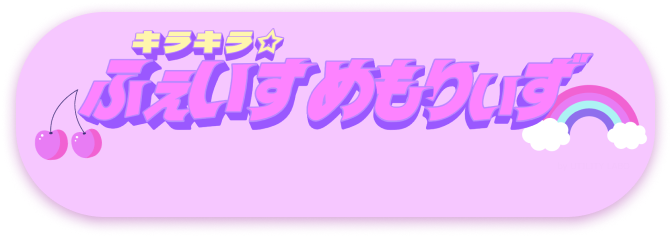
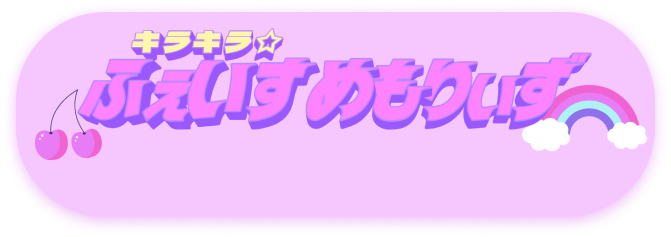
色味調整

diff --git a/css/common.css b/css/common.css
@@ -12,7 +12,7 @@ body, h1, ul, li, a {
     color: #FDF8FE;
     font-size: 16px;
     line-height: 120%;
-    text-shadow: 2px 2px 8px rgba(136, 81, 173, 0.603);
+    text-shadow: 2px 2px 8px rgba(212, 78, 230, 0.603);
 }
 
 html, body {
@@ -59,7 +59,7 @@ a {
 
 /* ヘッダー */
 header {
-    background-color: #C696E7;
+    background-color: #cd83ff;
     padding: 20px 10px;
     height: 50px;
     display: flex;
@@ -68,7 +68,7 @@ header {
     top: 0;
     width: 100%;
     z-index: 1000;
-    box-shadow: 0 4px 6px rgba(212, 159, 212, 1.0);
+    box-shadow: 0 4px 6px rgba(226, 143, 236, 1.0);
 }
 
 header .container {
@@ -98,8 +98,8 @@ header .container {
 }
 
 .header-right ul li a:hover {
-    background-color: #FDF8FE;
-    color: #C696E7;
+    background-color: #efe7f5;
+    color: #cd83ff;
 }
 
 .header-center {
@@ -173,8 +173,8 @@ main {
 
 .subnav {
     padding: 10px 20px;
-    color: #fcf57d;
-    background-color: #e796e7d3;
+    color: #fcf56f;
+    background-color: #EE90FF;
     border-radius: 25px;
     transition: background-color 0.3s, color 0.3s;
     text-shadow: 2px 2px 8px rgba(252, 245, 125, 0.2);
@@ -182,12 +182,12 @@ main {
 
 .subnav:hover {
     background-color: #FDF8FE;
-    color: #e796e7d3;
+    color: #EE90FF;
 }
 
 /* フッター */
 footer {
-    background-color: #C696E7;
+    background-color: #cd83ff;
     padding: 10px;
     height: 40px;
     display: flex;
@@ -195,11 +195,6 @@ footer {
     justify-content: center;
     z-index: 10000;
     position: relative;
-}
-
-footer p {
-    margin: 0;
-    color: #FDF8FE;
 }
 
 /* 最近のキラキラセクション */
@@ -234,16 +229,10 @@ footer p {
     font-size: 14px;
 }
 
-.sub-back {
-    background-color: #F6C7FF;
-    border-radius: 10px;
-    box-shadow: 0 4px 8px rgba(212, 159, 212, 1.0);
-}
-
-.recent-explain, .explain {
+/* .recent-explain, .explain {
     color: #bb7ece;
     text-shadow: 1px 1px 1px #d4b6cc;
-}
+} */
 
 /* プレビューエリア */
 #preview-area img {
@@ -264,13 +253,13 @@ footer p {
 .sample_box13 {
     padding: 1em 1.5em;
     margin: 1em auto;
-    background: #d796e7b0;
-    background-image: radial-gradient(#dbc2ebb0 10%, transparent 15%), radial-gradient(#dbc2ebb0 10%, transparent 15%);
+    background: #EE90FF;
+    background-image: radial-gradient(rgb(235, 192, 240) 10%, transparent 15%), radial-gradient(rgb(235, 192, 240) 10%, transparent 15%);
     background-position: 0 0, 10px 10px;
     background-size: 20px 20px;
     border-radius: 10px;
     width: 80%;
-    box-shadow: 0 4px 8px rgba(212, 159, 212, 1.0);
+    box-shadow: 0 4px 6px rgba(226, 143, 236, 1.0);
     z-index: 3;
 }
 

diff --git a/css/uploadarea.css b/css/uploadarea.css
@@ -26,21 +26,17 @@
 .file-drop-area {
     display: flex;
     align-items: center;
-    width: 40%;
+    width: 420px;
     padding: 33px;
     padding-bottom: 17px;
     border-radius: 20px;
-    background: linear-gradient(to right, #BD96FF, #EE90FF);
+    background: linear-gradient(to right, #ca91ff, #EE90FF);
     transition: background-color 0.2s;
     position: relative;
     justify-content: center;
-    box-shadow: 0 4px 8px rgba(212, 159, 212, 1.0);
+    box-shadow: 0 4px 8px rgba(226, 143, 236, 1);
     height: 50px;
     margin-top: -6px;
-}
-
-.file-drop-area.is-active {
-    background-color: rgba(212, 159, 212, 0.05);
 }
 
 .fake-btn {
@@ -81,29 +77,24 @@ input {
     color: #FDF8FE;
     font-size: 16px;
     line-height: 120%;
-    text-shadow: 1px 1px 1px #8144DD;
+    text-shadow: 2px 2px 8px rgba(212, 78, 230, 0.603);
 }
 
 .submit-btn {
-    background: linear-gradient(to right, #EE90FF, #BD96FF);
+    background: linear-gradient(to right, #EE90FF, #ca91ff);
     border: none;
     border-radius: 25px;
     padding: 12px 25px;
     cursor: pointer;
     transition: background 0.3s, transform 0.2s;
-    box-shadow: 0 4px 8px rgba(0, 0, 0, 0.2);
-    text-shadow: 2px 2px 8px rgba(136, 81, 173, 0.603);
-    margin-top: 10px;
+    box-shadow: 0 4px 8px rgb(214, 136, 223);
+    text-shadow: 2px 2px 8px rgba(212, 78, 230, 0.603);
+    margin-top: 13px;
     z-index: 100;
 }
 
 .submit-btn:hover {
-    background: linear-gradient(to right, #BD96FF, #EE90FF);
+    background: linear-gradient(to right, #ca91ff, #EE90FF);
     transform: translateY(-3px);
-    box-shadow: 0 6px 12px rgba(0, 0, 0, 0.3);
-}
-
-.submit-btn:active {
-    transform: translateY(0);
-    box-shadow: 0 4px 8px rgba(0, 0, 0, 0.2);
+    box-shadow: 0 4px 8px rgb(194, 116, 202);
 }
